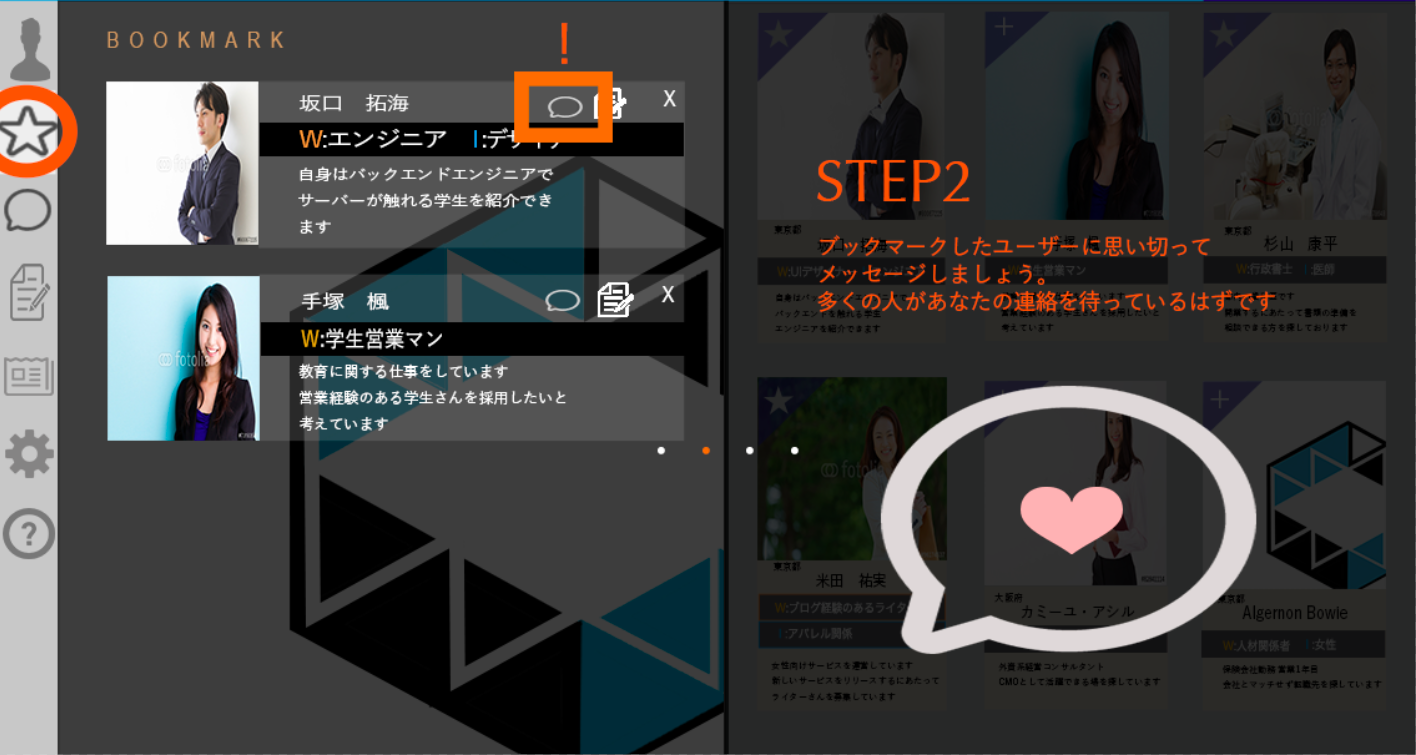
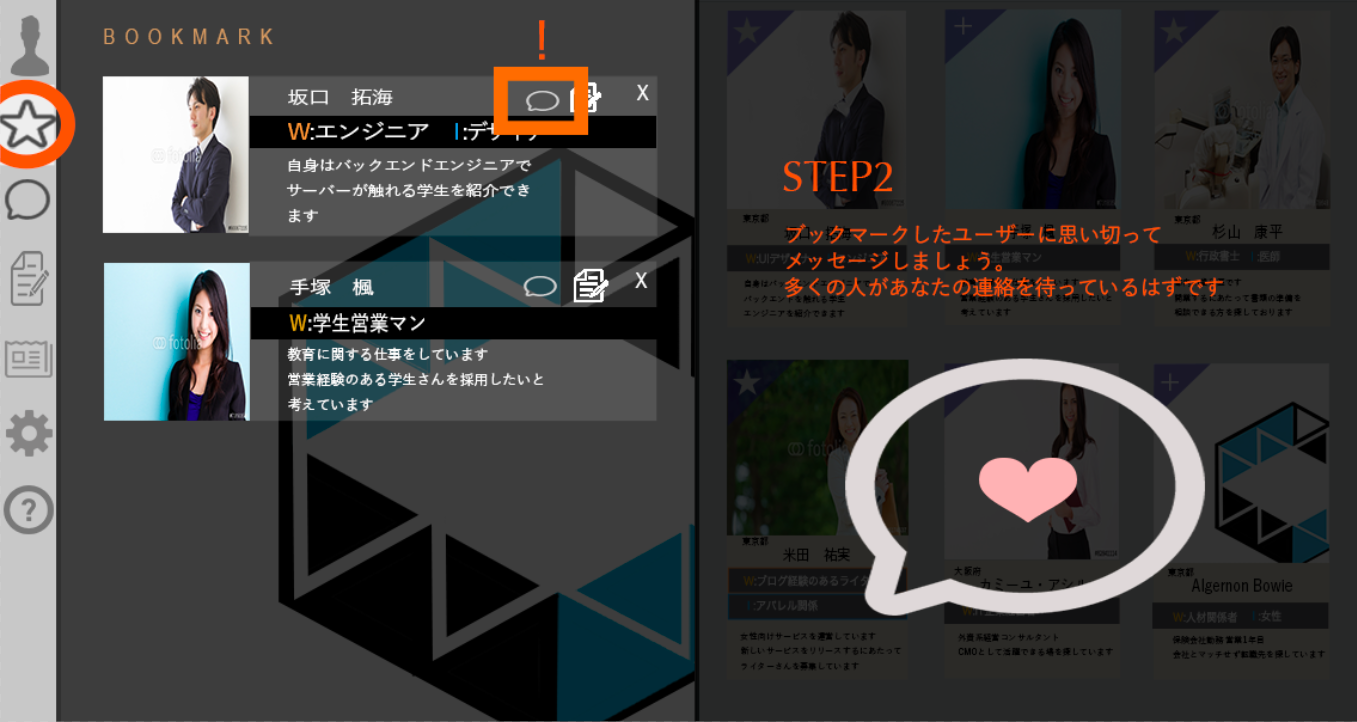
tutorial.js の修正

diff --git a/resources/react/components/Tutorial.js b/resources/react/components/Tutorial.js
@@ -2,56 +2,93 @@ export default class Tutorial extends React.Component {
 
     constructor() {
         super();
-
-        this.count = 1;
         this.imgs = [
             '/assets/imgs/step1.png',
             '/assets/imgs/step2.png',
             '/assets/imgs/step3.png',
             '/assets/imgs/step4.png',
-            '/assets/imgs/step5.png',
         ];
-        this.arrows = [
-            '/assets/imgs/left_orange.png',
+        this.leftArrows = [
             '/assets/imgs/left_white.png',
-            '/assets/imgs/right_orange.png',
+            '/assets/imgs/left_orange.png',
+        ];
+        this.rightArrows = [
             '/assets/imgs/right_white.png',
+            '/assets/imgs/right_orange.png',
+        ];
+        this.statuses = [
+            '/assets/imgs/left1.png',
+            '/assets/imgs/left2.png',
+            '/assets/imgs/left3.png',
+            '/assets/imgs/left4.png',
         ];
         this.point = '/assets/imgs/point.png';
+
+        this.state = {
+            count: 0,
+            leftArrowCount:  0,
+            rightArrowCount: 1
+        };
     }
 
     backClick() {
-        if(this.count !== 0) this.count--;
-        this._setImages(this.count);
+        this.setState({rightArrowCount: 1});
+        if(this.state.count === 0){
+            this.setState({
+                count: this.state.count,
+                leftArrowCount:  0,
+            });
+        }
+        else if(this.state.count === 1){
+            this.setState({
+                count: this.state.count - 1,
+                leftArrowCount:  0,
+            });   
+        }
+        else{
+            this.setState({
+                count: this.state.count - 1,
+                leftArrowCount:  1,
+            });
+        }
     }
 
     frontClick() {
-        if(this.count !== this.imgs.length) this.count++;
-        this._setImages(this.count);
-    }
-
-    _setImages(count) {
-        document.getElementById('step').src = this.imgs[count];
-        switch(count){
-            case 0:
-                document.getElementById('leftArrow').src = this.arrows[1];
-                break;
-            case 4:
-                document.getElementById('rightArrow').src = this.arrows[3];
-                break;
-            default:
-                document.getElementById('leftArrow').src  = this.arrows[0];
-                document.getElementById('rightArrow').src = this.arrows[2];
+        this.setState({leftArrowCount: 1});
+        if(this.state.count === this.imgs.length - 1){
+            this.setState({
+                count: this.state.count,
+                rightArrowCount: 0
+            });
+        }
+        else if(this.state.count === this.imgs.length - 2){
+            this.setState({
+                count: this.state.count + 1,
+                rightArrowCount: 0
+            });
+        }
+        else{
+            this.setState({
+                count: this.state.count + 1,
+                rightArrowCount: 1
+            });
         }
     }
 
     render() {
+        var background = (<img className='step' src={this.imgs[this.state.count]} />);
+        var leftArrow = (<a className='leftArrow' onClick={this.backClick.bind(this)}><img src={this.leftArrows[this.state.leftArrowCount]} /></a>);
+        var rightArrow = (<a className='rightArrow' onClick={this.frontClick.bind(this)}><img src={this.rightArrows[this.state.rightArrowCount]} /></a>);
+        var point = (<img className='point' src={this.point} />);
+        var statusImg = (<img className='status' src={this.statuses[this.state.count]} />);
+
         return (
             <div className='tutorialPage'>
-                <img id='step' src={this.imgs[0]} />
-                <a className='leftArrow' onClick={this.backClick.bind(this)}><img id='leftArrow' src={this.arrows[1]} /></a>
-                <img className='point' src={this.point} />
-                <a className='rightArrow' onClick={this.frontClick.bind(this)}><img id='rightArrow' src={this.arrows[2]} /></a>
+                { background }
+                { leftArrow }
+                { point }
+                { rightArrow }
+                { statusImg }
             </div>
         );
     }

diff --git a/resources/sass/app.scss b/resources/sass/app.scss
@@ -1096,31 +1096,39 @@ header {
     }
 }
 
-.tutorialPage{
+.tutorialPage {
 
     width: 100%;
     height: 100%;
     position: relative;
-    
-    #step {
-        width: 100%;
-    }
 
-    .leftArrow {
-        position: absolute;
-        top: 350px;
-        left: 640px;
+    .step {
+        width: 100%;
+        height: 100%;
     }
 
     .point {
         position: absolute;
-        top: 380px;
-        left: 730px; 
+        top: 50%;
+        left: 51%; 
     }
+
+    .leftArrow {
+        position: absolute;
+        top: 46%;
+        left: 45%;
+    }
+
 
     .rightArrow {
         position: absolute;
-        top: 350px;
-        left: 780px;
+        top: 46%;
+        left: 54%;
+    }
+
+    .status {
+        position: absolute;
+        top: 60%;
+        left: 48%;
     }
 }
